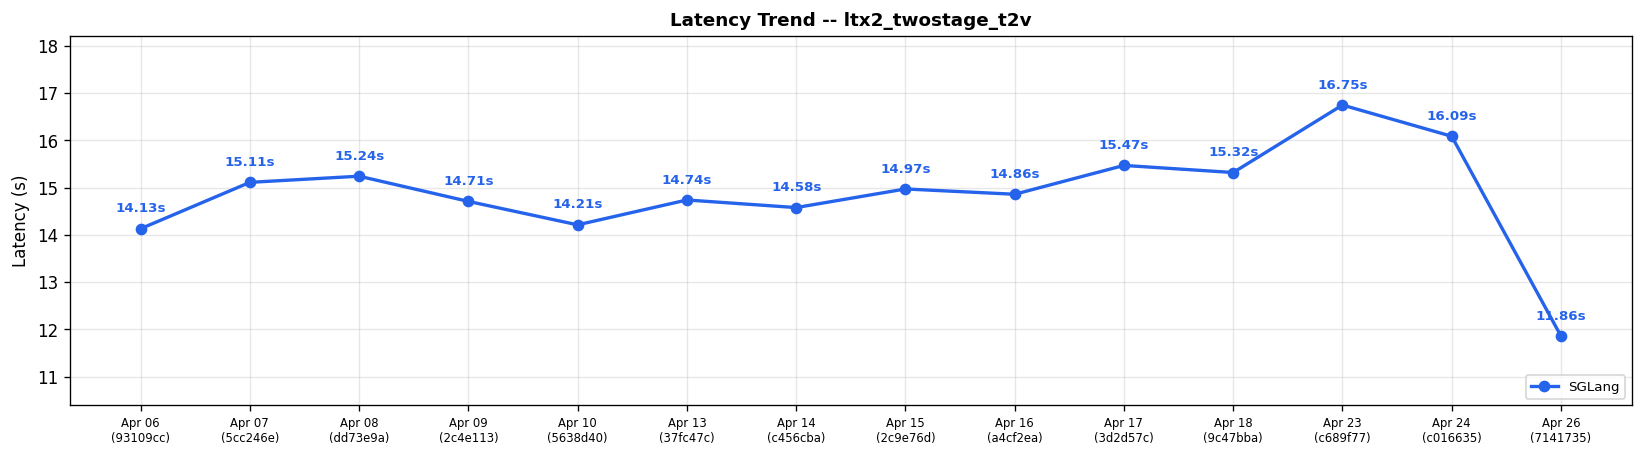
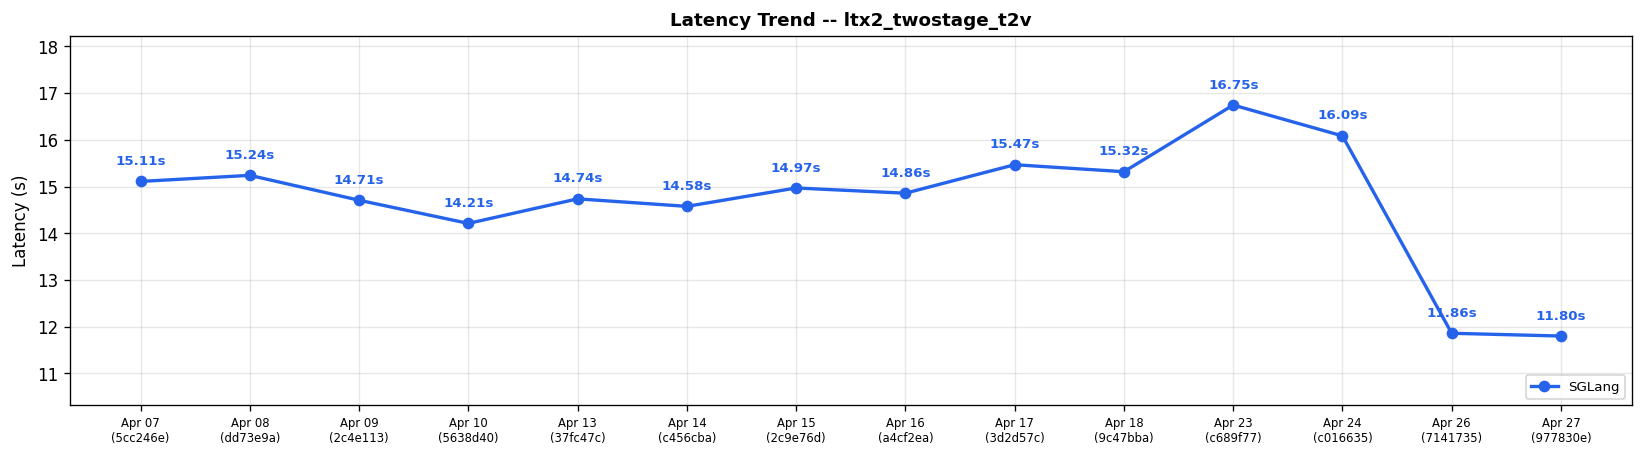
Diffusion comparison results for run 24971499389 (#582)

diff --git a/diffusion-comparisons/dashboard.md b/diffusion-comparisons/dashboard.md
@@ -1,21 +1,21 @@
 # Diffusion Cross-Framework Performance Dashboard
 
-*Generated: Apr 26 | Commit: `7141735`*
+*Generated: Apr 27 | Commit: `977830e`*
 
 ## Cross-Framework Performance Comparison
 
 | Model | Risk | sglang (s) |
 |-------|------|---------|
-| FLUX.1-dev | ✅ | **6.71** |
-| FLUX.2-dev | ✅ | **22.84** |
+| FLUX.1-dev | ✅ | **6.72** |
+| FLUX.2-dev | ✅ | **22.91** |
 | Qwen-Image-2512 | ✅ | **13.24** |
-| Qwen-Image-Edit-2511 | ✅ | **23.89** |
+| Qwen-Image-Edit-2511 | ✅ | **23.91** |
 | Z-Image-Turbo | ✅ | **0.89** |
-| Wan2.2-T2V-A14B-Diffusers | ✅ | **212.74** |
-| Wan2.2-TI2V-5B-Diffusers | ✅ | **62.22** |
-| LTX-2 | ✅ | **11.86** |
+| Wan2.2-T2V-A14B-Diffusers | ✅ | **212.10** |
+| Wan2.2-TI2V-5B-Diffusers | ✅ | **63.20** |
+| LTX-2 | ✅ | **11.80** |
 | LTX-2.3 | ❌ | N/A |
-| Wan2.2-I2V-A14B-Diffusers | ✅ | **208.55** |
+| Wan2.2-I2V-A14B-Diffusers | ✅ | **208.53** |
 
 ### Latency Trend: flux1_dev_t2i_1024
 
@@ -71,6 +71,7 @@
 
 | Date | Commit | flux1_dev_t2i_1024 (s) | flux2_dev_t2i_1024 (s) | qwen_image_2512_t2i_1024 (s) | qwen_image_edit_2511 (s) | zimage_turbo_t2i_1024 (s) | wan22_t2v_a14b_720p (s) | wan22_ti2v_5b_720p (s) | ltx2_twostage_t2v (s) | ltx2.3_twostage_ti2v_2gpus (s) | wan22_i2v_a14b_720p (s) | Trend |
 |------|--------|---------|---------|---------|---------|---------|---------|---------|---------|---------|---------|-------|
+| Apr 27 | `977830e` | 6.72 | 22.91 | 13.24 | 23.91 | 0.89 | 212.10 | 63.20 | 11.80 | N/A | 208.53 | :left_right_arrow:  :left_right_arrow:  :left_right_arrow:  :left_right_arrow:  :left_right_arrow:  :left_right_arrow:  :left_right_arrow:  :left_right_arrow:   :left_right_arrow: |
 | Apr 26 | `7141735` | 6.71 | 22.84 | 13.24 | 23.89 | 0.89 | 212.74 | 62.22 | 11.86 | N/A | 208.55 |          |
 | Apr 25 | `a4facdf` | N/A | N/A | N/A | N/A | N/A | N/A | N/A | N/A | N/A | N/A |          |
 | Apr 24 | `c016635` | 6.71 | 22.81 | 13.77 | 23.83 | 0.89 | 211.38 | 62.22 | 16.09 | 69.23 | 209.67 | :left_right_arrow:  :left_right_arrow:  :arrow_up:  :left_right_arrow:  :left_right_arrow:    :arrow_down:  :arrow_up:  |
@@ -84,8 +85,7 @@
 | Apr 10 | `5638d40` | 6.68 | 22.78 | 13.16 | 23.76 | 0.88 | 209.41 | 62.16 | 14.21 | N/A | 204.58 | :left_right_arrow:  :left_right_arrow:  :left_right_arrow:  :left_right_arrow:  :left_right_arrow:  :left_right_arrow:  :left_right_arrow:  :arrow_down:   :left_right_arrow: |
 | Apr 09 | `2c4e113` | 6.71 | 22.93 | 13.20 | 23.80 | 0.89 | 210.35 | 62.16 | 14.71 | N/A | 206.54 | :left_right_arrow:  :left_right_arrow:  :left_right_arrow:  :left_right_arrow:  :left_right_arrow:  :left_right_arrow:  :left_right_arrow:  :arrow_down:   :left_right_arrow: |
 | Apr 08 | `dd73e9a` | 6.83 | 22.96 | 13.19 | 23.84 | 0.89 | 210.25 | 62.20 | 15.24 | N/A | 206.65 | :arrow_up:  :left_right_arrow:  :left_right_arrow:  :left_right_arrow:  :left_right_arrow:  :left_right_arrow:  :left_right_arrow:  :left_right_arrow:   :left_right_arrow: |
-| Apr 07 | `5cc246e` | 6.69 | 22.92 | 13.19 | 23.83 | 0.89 | 210.64 | 62.20 | 15.11 | N/A | 207.62 | :left_right_arrow:  :left_right_arrow:  :arrow_down:  :left_right_arrow:  :left_right_arrow:  :left_right_arrow:  :left_right_arrow:  :arrow_up:   :left_right_arrow: |
-| Apr 06 | `93109cc` | 6.70 | 22.86 | 13.61 | 23.92 | 0.89 | 210.73 | 62.15 | 14.13 | N/A | 207.67 | -- |
+| Apr 07 | `5cc246e` | 6.69 | 22.92 | 13.19 | 23.83 | 0.89 | 210.64 | 62.20 | 15.11 | N/A | 207.62 | -- |
 
 > [!CAUTION]
 > **Action Required — Performance Alert**
